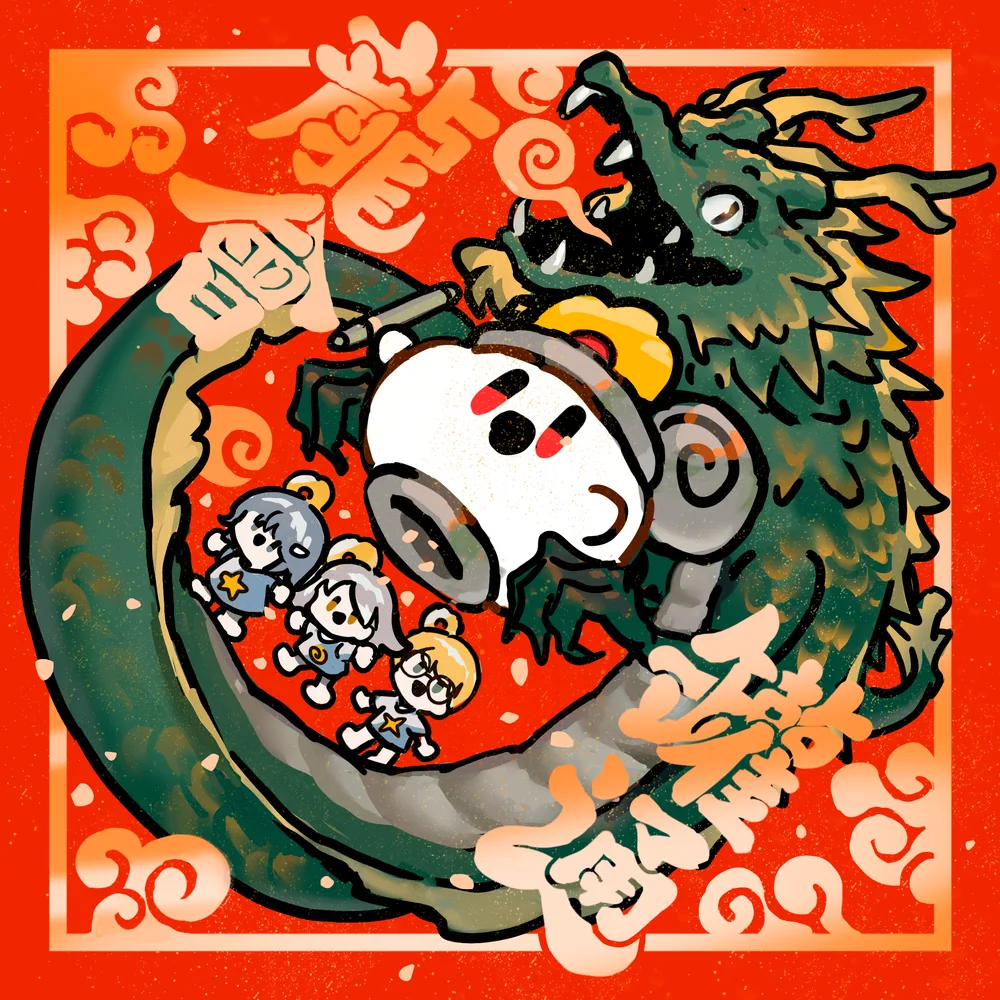
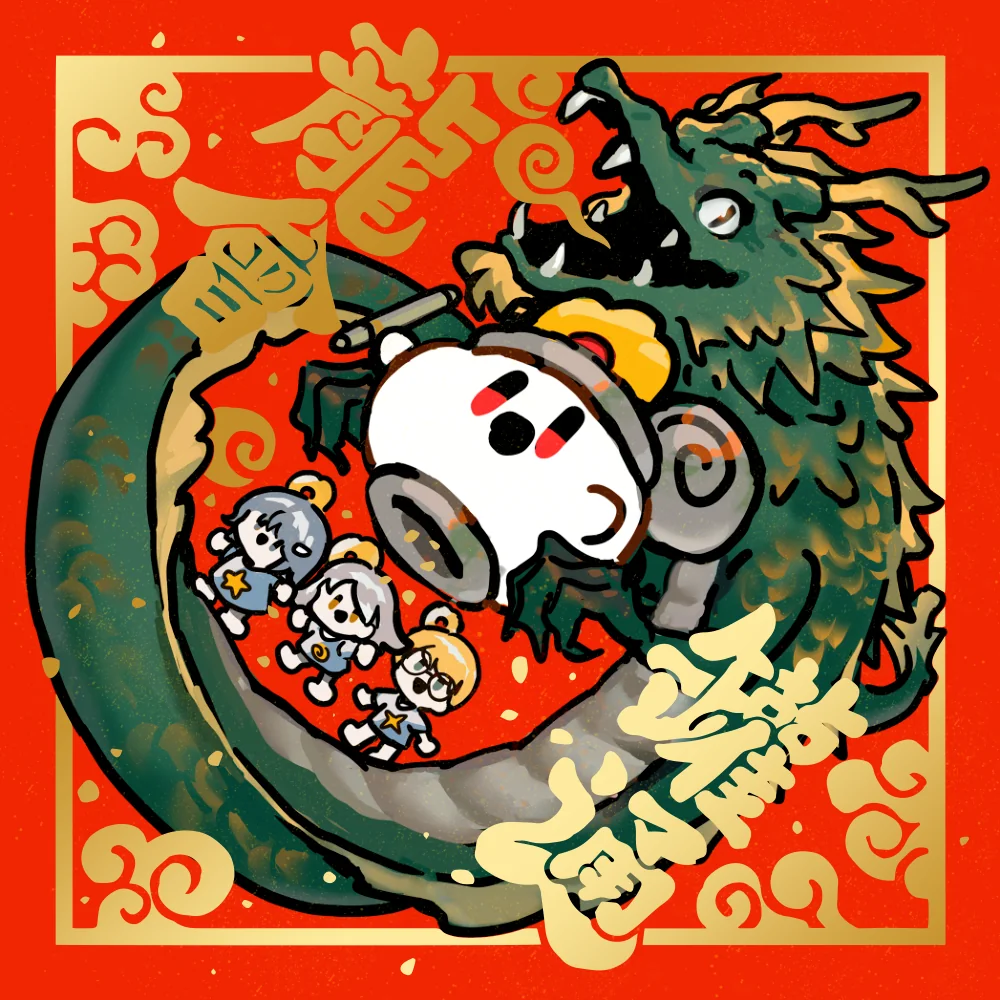
Spring couplet: rebuilt from the factory .ai with gold foil, hung as a diamond, glowing foil with a sweeping glint

diff --git a/shared.css b/shared.css
@@ -134,6 +134,7 @@ img { max-width:100%; }
 .pw-strip button { width:46px; height:64px; padding:2px; }
 .pw-strip button.wide { width:84px; }
 .pw-strip button.sq { width:64px; }
+.pw-strip button.dia img { transform:rotate(45deg) scale(.68); }
 .pw-strip img { object-fit:cover; border-radius:3px; }
 .lb-foot { display:flex; align-items:center; justify-content:space-between; gap:12px; flex-wrap:wrap; padding:14px 20px 16px; border-top:1px solid var(--line); background:#fff; }
 .lb-foot h3 { margin:0; font-size:19px; }
@@ -281,6 +282,10 @@ img { max-width:100%; }
   box-shadow:0 1px 2px rgba(0,0,0,.12), 0 6px 12px rgba(0,0,0,.10); transition:transform .18s, box-shadow .18s; }
 .pc.wide { width:156px; }
 .pc.sq { width:128px; }
+/* 斗方（春聯）：轉 45 度、尖端朝上；外框不要白底和方形影子，影子改在圖上 */
+.pc.sq.dia { width:150px; background:none; box-shadow:none; }
+.pc.sq.dia img { transform:rotate(45deg) scale(.7071); box-shadow:0 2px 4px rgba(0,0,0,.14), 0 8px 14px rgba(0,0,0,.14); }
+.pc.sq.dia:hover { box-shadow:none; }
 .pc img { width:100%; display:block; }
 .pc:hover { transform:rotate(0) translateY(-4px) scale(1.04); box-shadow:0 2px 4px rgba(0,0,0,.14), 0 14px 22px rgba(0,0,0,.16); z-index:1; }
 .pw-more { margin:22px 2px 0; color:var(--mute); font-size:13px; }
@@ -291,6 +296,16 @@ img { max-width:100%; }
 .pw-card { height:min(48vh,440px); aspect-ratio:2/3; cursor:pointer; transform:rotateY(var(--tx)) rotateX(var(--ty)); transition:transform .25s ease-out; transform-style:preserve-3d; }
 .pw-card.wide { height:auto; width:min(76%,560px); aspect-ratio:3/2; }
 .pw-card.sq { aspect-ratio:1/1; }
+.pw-card.dia .pw-flip { transform:rotate(45deg) scale(.7071); }
+@media (min-width:641px) { .pw-card.dia .pw-flip { transform:rotate(45deg) scale(.8); } }   /* 電腦上放大一點（手機會超出螢幕寬，維持 .7071） */
+/* 燙金發光：金光一明一暗、一道光斜斜掃過（只在燙金形狀上，mask 由 postcards.js 設） */
+.pw-flip .foil { position:absolute; inset:0; width:100%; height:100%; pointer-events:none; }
+.pw-flip img.foil.glow { box-shadow:none; background:none; object-fit:fill; mix-blend-mode:screen; animation:foil-glow 2.6s ease-in-out infinite alternate; }
+.pw-flip .foil.shine { -webkit-mask-size:100% 100%; mask-size:100% 100%; -webkit-mask-repeat:no-repeat; mask-repeat:no-repeat;
+  background:linear-gradient(120deg, rgba(255,255,255,0) 40%, rgba(255,252,225,.95) 50%, rgba(255,255,255,0) 60%) no-repeat;
+  background-size:250% 100%; mix-blend-mode:screen; animation:foil-sweep 3.4s ease-in-out infinite; }
+@keyframes foil-glow { from { opacity:.25; } to { opacity:.85; } }
+@keyframes foil-sweep { 0% { background-position:130% 0; } 55%, 100% { background-position:-30% 0; } }
 .pw-flip { position:relative; width:100%; height:100%; transform-style:preserve-3d; transition:transform .6s cubic-bezier(.2,.8,.2,1); }
 .pw-card.flipped .pw-flip { transform:rotateY(180deg); }   /* 不能叫 .back：樣品頁左上角的返回鈕就是 .back（固定在角落的深色膠囊） */
 .pw-flip img { position:absolute; inset:0; width:100%; height:100%; object-fit:cover; backface-visibility:hidden; -webkit-backface-visibility:hidden;

diff --git a/postcards.js b/postcards.js
@@ -19,8 +19,8 @@
     return (x < 0 ? 99 : x) - (y < 0 ? 99 : y) || a[0] - b[0];
   });
   // 春聯也放進原創明信片牆（他要的，2026-10-04）：正方形、單面、自己的價格和賣貨便商品（不是明信片，所以不算在「N 款」裡）
-  // 圖：NAS 商品照片「春節_春聯_效果圖.png」（燙金效果）→ img/post/cl-l／-s.webp
-  CARDS.push(['cl', '龍會罐通燙金春聯', 'sq', { price: 50, single: 1, note: '15.2 × 15.2 cm・燙金・新年考生兩用' }]);
+  // 圖：build_chunlian.py 從工廠的 .ai 做的（印刷層＋金色燙金）；擺成斗方（尖端朝上），放大時燙金會發光、有一道光掃過
+  CARDS.push(['cl', '龍會罐通燙金春聯', 'sq', { price: 50, single: 1, dia: 1, foil: 'cl', note: '15.2 × 15.2 cm・燙金・新年考生兩用' }]);
   // 二創（单面資料夾的 A 編號）：[編號, 角色名, 橫?]
   var FAN = [
     [1, '靜謐'], [2, '凜'], [3, '雙貞德', 1], [4, '虞美人', 1], [5, '黑貞'], [6, '小霞|寶可夢'],
@@ -39,7 +39,7 @@
   });
   var pw, at = -1, prod = null;
   function esc(s) { return CK.esc(s); }
-  function cls(c) { return c.wide ? ' wide' : c.sq ? ' sq' : ''; }
+  function cls(c) { return c.wide ? ' wide' : c.sq ? ' sq' + (c.x && c.x.dia ? ' dia' : '') : ''; }
   function ensure() {
     if (pw) return;
     pw = document.createElement('div'); pw.className = 'lb pw';
@@ -144,7 +144,15 @@
     var c = list[i], card = pw.querySelector('.pw-card');
     card.classList.toggle('wide', c.wide); card.classList.remove('flipped');
     card.querySelector('.f').src = c.l;
-    card.classList.toggle('sq', c.sq);
+    card.classList.toggle('sq', c.sq); card.classList.toggle('dia', !!(c.x && c.x.dia));
+    // 燙金：外面一圈金光（一明一暗）＋只在燙金形狀上掃過的一道光
+    var flip = card.querySelector('.pw-flip');
+    Array.prototype.forEach.call(flip.querySelectorAll('.foil'), function (n) { n.remove(); });
+    if (c.x && c.x.foil) {
+      var m = 'url(' + P + c.x.foil + '-foil.webp)';
+      flip.insertAdjacentHTML('beforeend', '<img class="foil glow" src="' + P + c.x.foil + '-glow.webp" alt=""><i class="foil shine"></i>');
+      var sh = flip.querySelector('.shine'); sh.style.webkitMaskImage = sh.style.maskImage = m;
+    }
     if (O.single || (c.x && c.x.single)) card.querySelector('.b').removeAttribute('src');      // 單面：沒有背面
     else card.querySelector('.b').src = P + (c.wide ? 'back-h.webp' : 'back-v.webp');
     pw.querySelector('.pw-cap b').textContent = c.name;

diff --git a/goods.html b/goods.html
@@ -6,7 +6,7 @@
 <title>周邊｜空罐王的商店</title>
 <!-- 卡冊 3D 用到 three.js 官方附的 RoundedBoxGeometry，它 import 'three'：指到跟其他 3D 模組同一份 -->
 <script type="importmap">{ "imports": { "three": "https://cdn.jsdelivr.net/npm/three@0.160.0/build/three.module.js" } }</script>
-<link rel="stylesheet" href="shared.css?v=a126cc4a">
+<link rel="stylesheet" href="shared.css?v=14d5e530">
 <link rel="stylesheet" href="shop-v3.css?v=9559091f">
 <style>
   /* 周邊頁樣品：保留現在網站的紅色風格，只改排版。
@@ -231,7 +231,7 @@
 <script src="shop-v3.js?v=da31c7eb"></script>
 <script src="tees-data.js?v=8cfe961e"></script>
 <script src="books-data.js?v=cfe048a8"></script>
-<script src="postcards.js?v=1bf1a4ae"></script>
+<script src="postcards.js?v=7f6c5190"></script>
 <script>
 (function () {
   // 商品資料在 data/products.json（後台 admin.html 讀寫的就是這份）；這裡只負責畫出來。

diff --git a/t24676.html b/t24676.html
@@ -4,7 +4,7 @@
 <meta charset="utf-8">
 <meta name="viewport" content="width=device-width, initial-scale=1">
 <title>T恤｜空罐王的商店</title>
-<link rel="stylesheet" href="shared.css?v=a126cc4a">
+<link rel="stylesheet" href="shared.css?v=14d5e530">
 <style>
   /* T 恤頁樣品（第三版）：照正式站 T 恤頁原本的編排（他喜歡原本的版面），只用原本頁面上的圖，
      但原本每件的圖由上往下一張一張排、整頁很長（桌機約 6700px）。

diff --git a/events-883299.html b/events-883299.html
@@ -4,7 +4,7 @@
 <meta charset="utf-8">
 <meta name="viewport" content="width=device-width, initial-scale=1">
 <title>實體店寄售｜空罐王的商店</title>
-<link rel="stylesheet" href="shared.css?v=a126cc4a">
+<link rel="stylesheet" href="shared.css?v=14d5e530">
 <link rel="stylesheet" href="shop-v3.css?v=9559091f">
 <style>
   /* 實體店寄售樣品：內容照正式站 events-883299.html。每家店一張白卡：店名、賣什麼（小標籤）、地址、開地圖 */

diff --git a/2345835069212702183021697.html b/2345835069212702183021697.html
@@ -4,7 +4,7 @@
 <meta charset="utf-8">
 <meta name="viewport" content="width=device-width, initial-scale=1">
 <title>客製化商品｜空罐王的商店</title>
-<link rel="stylesheet" href="shared.css?v=a126cc4a">
+<link rel="stylesheet" href="shared.css?v=14d5e530">
 <link rel="stylesheet" href="shop-v3.css?v=9559091f">
 <style>
   /* 客製化商品樣品：內容照正式站（客製信用卡造型卡片）。商品一大框 → 作品 → 怎麼訂 → 開箱影片 */

diff --git a/lessons.html b/lessons.html
@@ -4,7 +4,7 @@
 <meta charset="utf-8">
 <meta name="viewport" content="width=device-width, initial-scale=1">
 <title>課程｜空罐王的商店</title>
-<link rel="stylesheet" href="shared.css?v=a126cc4a">
+<link rel="stylesheet" href="shared.css?v=14d5e530">
 <link rel="stylesheet" href="shop-v3.css?v=9559091f">
 <style>
   /* 課程頁樣品：內容照正式站 lessons.html，外觀套首頁／周邊頁／貼紙頁那一套（shop-v3.css）。

diff --git a/index.html b/index.html
@@ -4,7 +4,7 @@
 <meta charset="utf-8">
 <meta name="viewport" content="width=device-width, initial-scale=1">
 <title>空罐王的商店</title>
-<link rel="stylesheet" href="shared.css?v=a126cc4a">
+<link rel="stylesheet" href="shared.css?v=14d5e530">
 <link rel="stylesheet" href="shop-v3.css?v=9559091f">
 <style>
   /* 首頁樣品：內容和版面尺寸照正式站原本的首頁，外觀套用周邊頁／貼紙頁那一套（shop-v3.css）。

diff --git a/events.html b/events.html
@@ -4,7 +4,7 @@
 <meta charset="utf-8">
 <meta name="viewport" content="width=device-width, initial-scale=1">
 <title>活動｜空罐王的商店</title>
-<link rel="stylesheet" href="shared.css?v=a126cc4a">
+<link rel="stylesheet" href="shared.css?v=14d5e530">
 <link rel="stylesheet" href="shop-v3.css?v=9559091f">
 <style>
   /* 活動頁樣品：資料跟正式站同一份（指揮部推送的 events-live.js＋手動的 events-data.js），

diff --git a/3287921517251632723127580.html b/3287921517251632723127580.html
@@ -4,7 +4,7 @@
 <meta charset="utf-8">
 <meta name="viewport" content="width=device-width, initial-scale=1">
 <title>聯名手機殼｜空罐王的商店</title>
-<link rel="stylesheet" href="shared.css?v=a126cc4a">
+<link rel="stylesheet" href="shared.css?v=14d5e530">
 <link rel="stylesheet" href="shop-v3.css?v=9559091f">
 <style>
   /* 聯名手機殼樣品：內容照正式站（兩張橫幅＋「手機試衣間」連到 DEVILCASE） */

diff --git a/illusts.html b/illusts.html
@@ -4,7 +4,7 @@
 <meta charset="utf-8">
 <meta name="viewport" content="width=device-width, initial-scale=1">
 <title>數位賣場｜空罐王的商店</title>
-<link rel="stylesheet" href="shared.css?v=a126cc4a">
+<link rel="stylesheet" href="shared.css?v=14d5e530">
 <link rel="stylesheet" href="shop-v3.css?v=9559091f">
 <style>
   /* 數位賣場樣品：內容照正式站 illusts.html（Gumroad 的頻道會員獎勵，按年份分）。

diff --git a/3005920874.html b/3005920874.html
@@ -4,7 +4,7 @@
 <meta charset="utf-8">
 <meta name="viewport" content="width=device-width, initial-scale=1">
 <title>畫冊｜空罐王的商店</title>
-<link rel="stylesheet" href="shared.css?v=a126cc4a">
+<link rel="stylesheet" href="shared.css?v=14d5e530">
 <link rel="stylesheet" href="shop-v3.css?v=9559091f">
 <style>
   /* 畫冊頁樣品：內容照正式站 3005920874.html，外觀套 v3。
